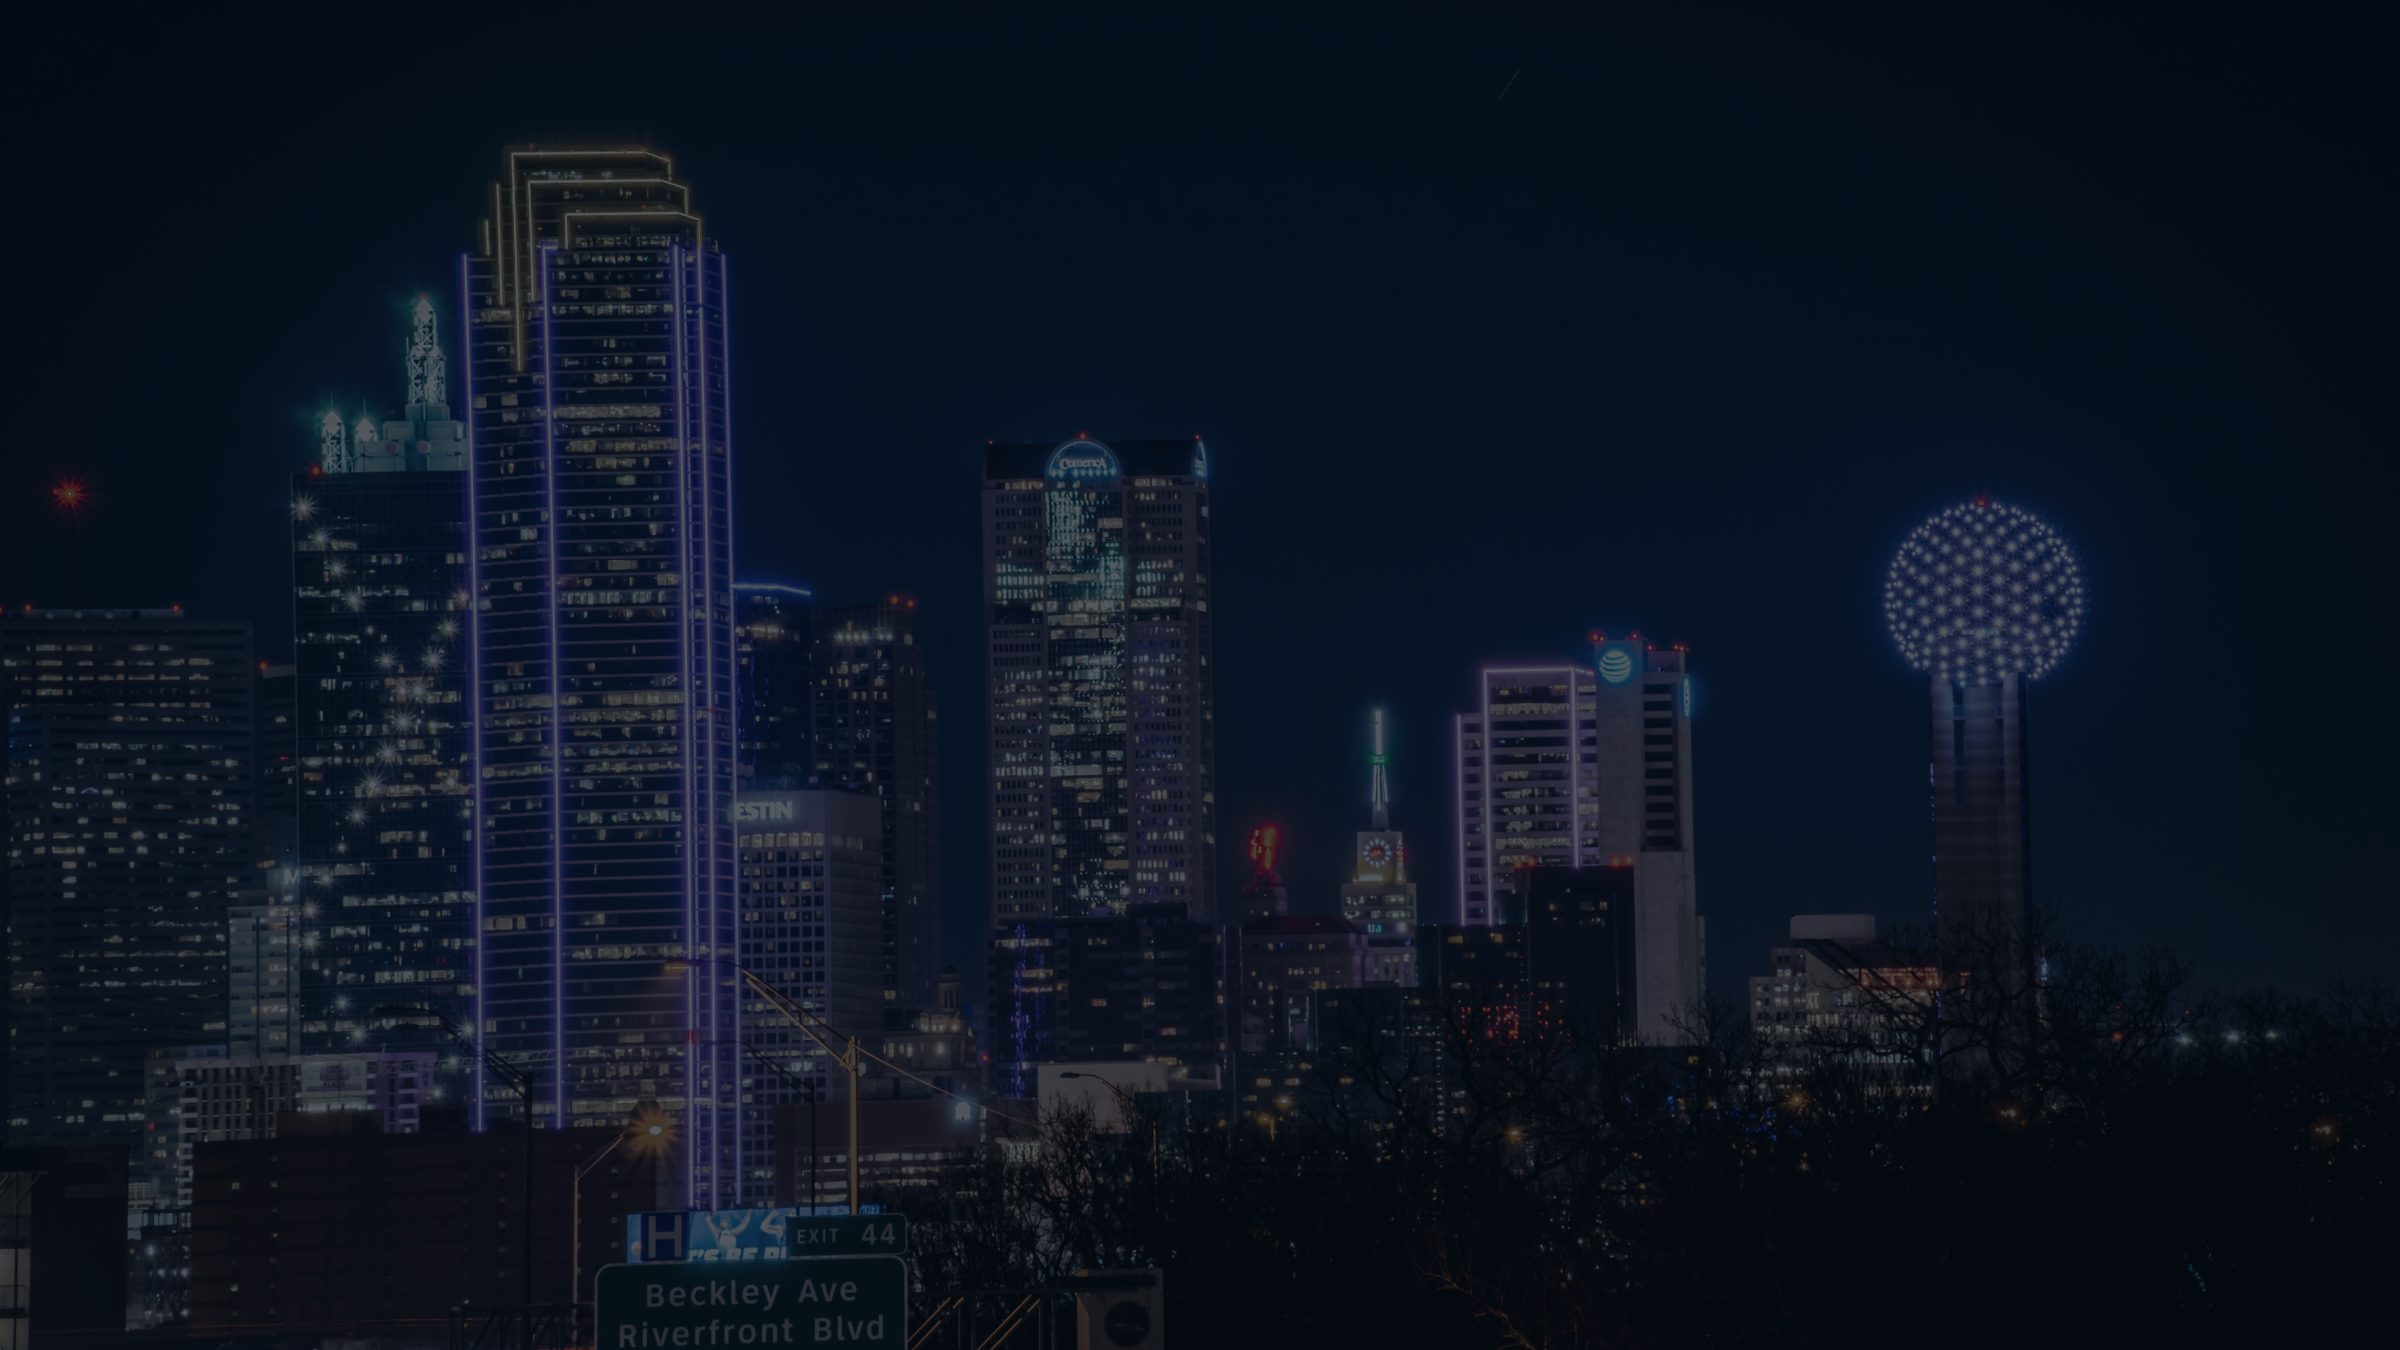
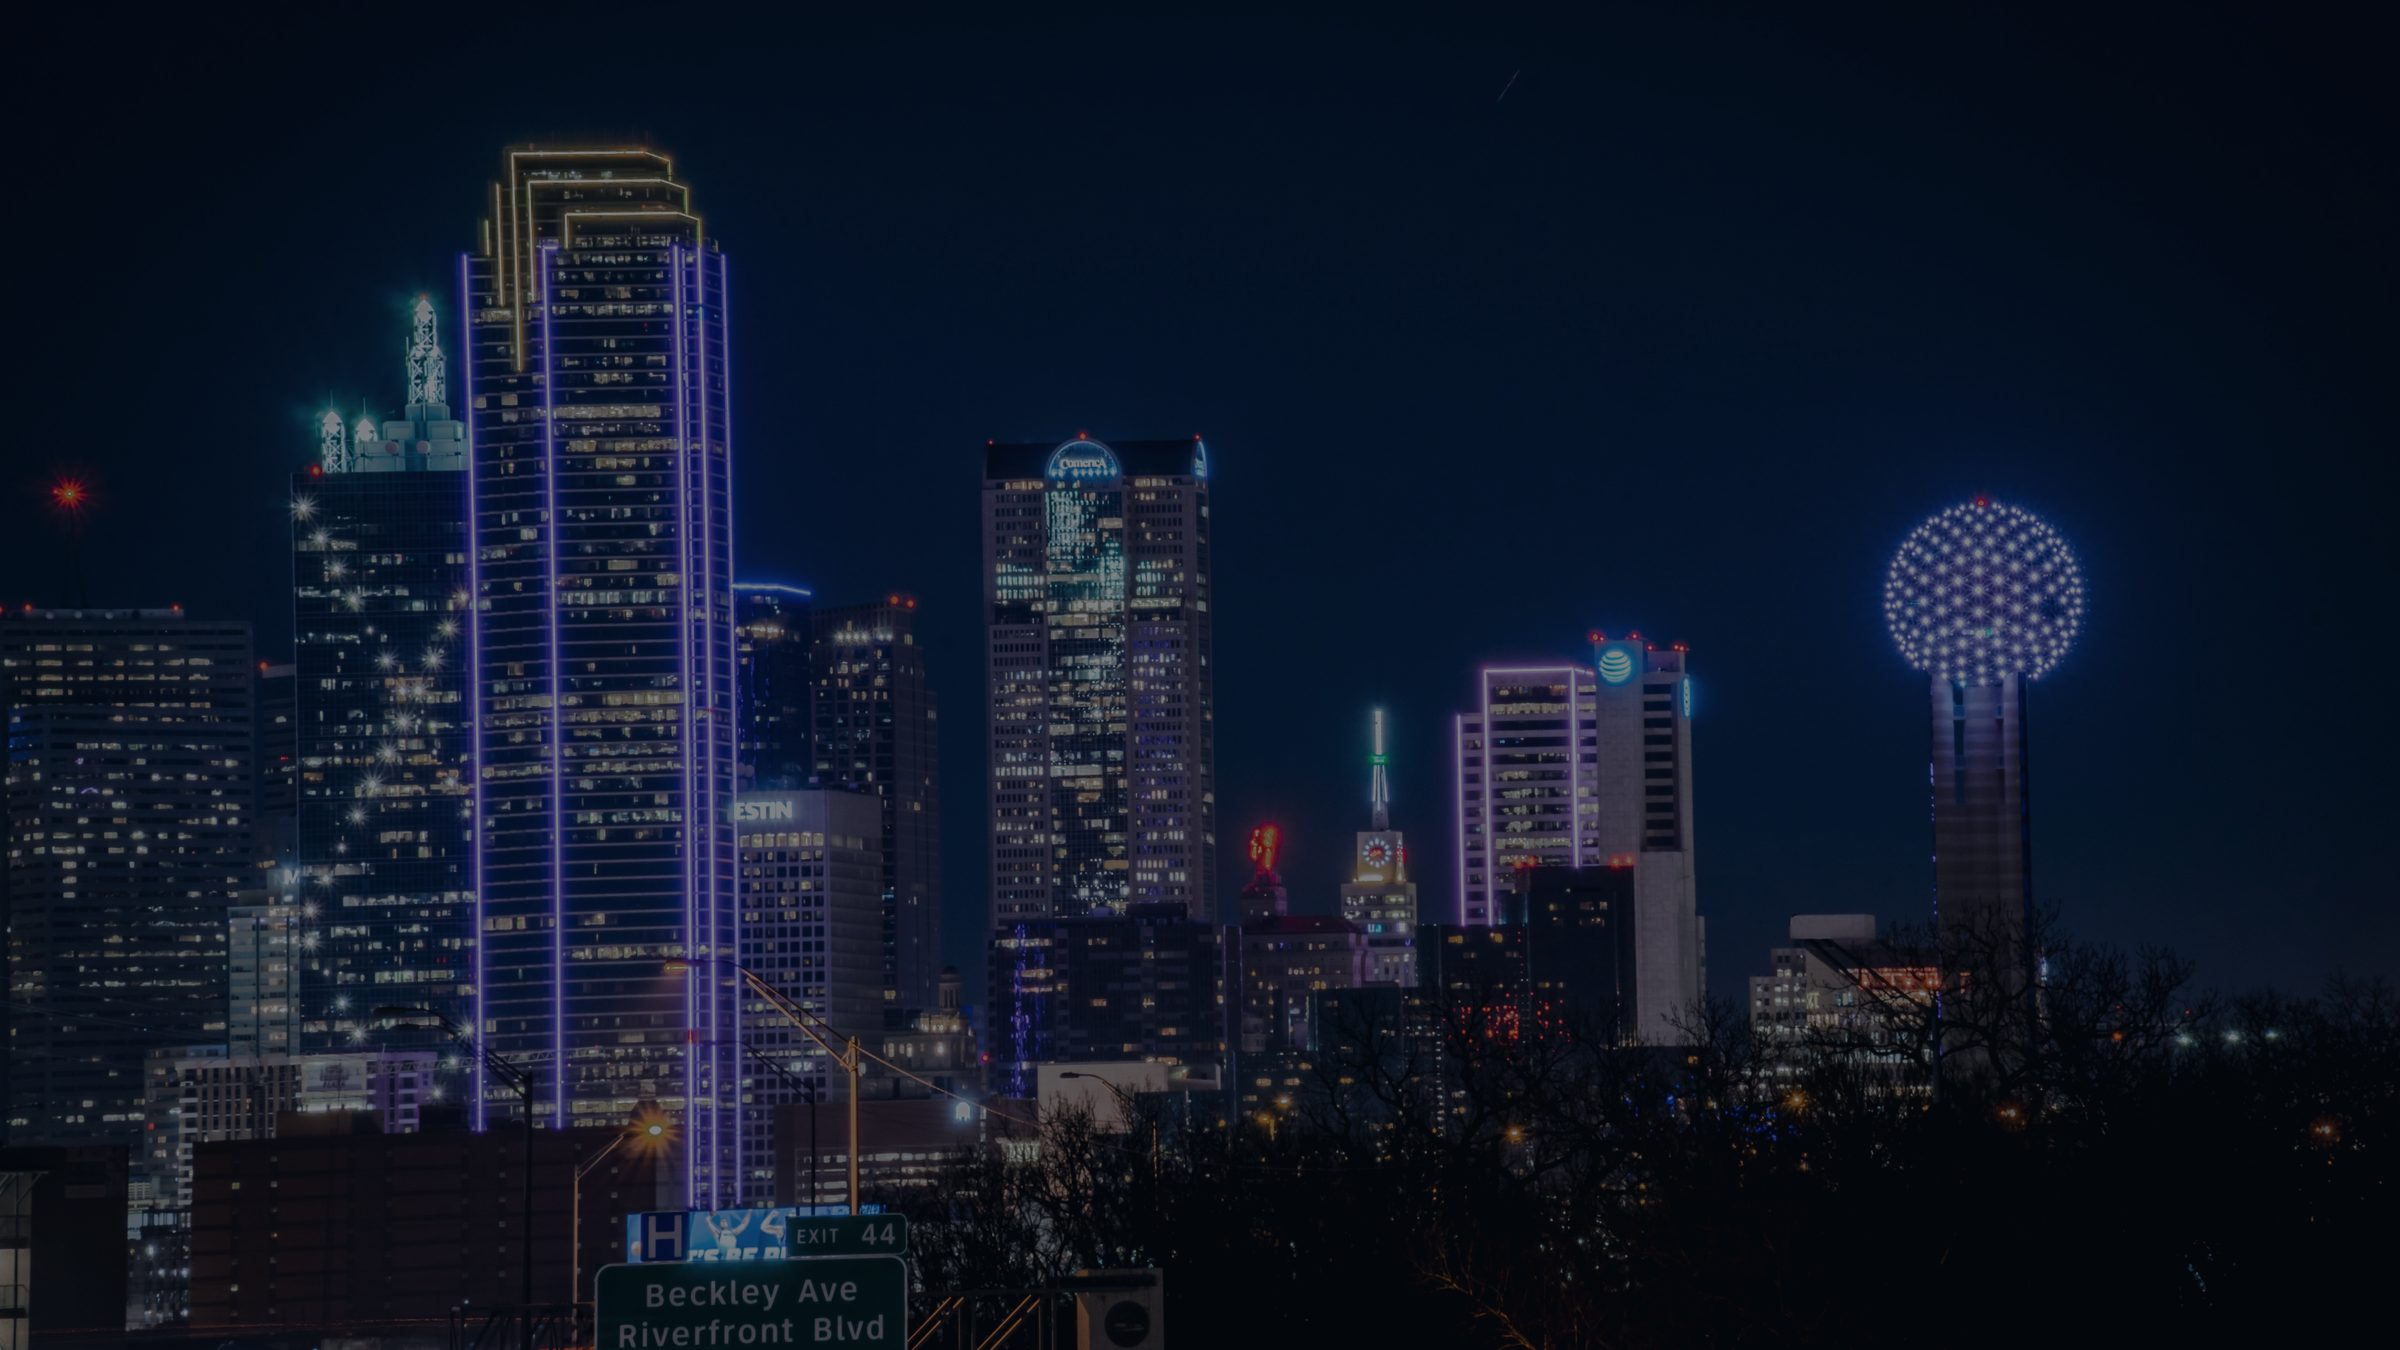
Brighten Dallas hero bg and tighten hero spacing
- Reprocessed dallas-hero.jpg brighter (0.66) with lighter navy tint
  (0.26) so the skyline reads more clearly behind the attorney
- Lightened the hero scrim on the right so more of the city shows
  while keeping the left dark enough for the headline
- Reduced hero padding/min-height and centered the content to remove
  the extra vertical space above and below

diff --git a/home-variation-aer.html b/home-variation-aer.html
@@ -57,10 +57,10 @@ nav a:hover{color:var(--gold-soft)}
 .hero .bg{position:absolute;inset:0;z-index:0;background:url('assets/img/dallas-hero.jpg') center 28%/cover no-repeat}
 .hero .scrim{position:absolute;inset:0;z-index:1;pointer-events:none;
   background:
-    linear-gradient(90deg, rgba(8,16,27,.95) 0%, rgba(11,22,37,.82) 34%, rgba(11,22,37,.42) 62%, rgba(11,22,37,.30) 100%),
-    linear-gradient(0deg, var(--navy-2) 1%, rgba(9,17,28,.55) 16%, rgba(9,17,28,0) 42%),
-    radial-gradient(820px 460px at 74% 42%, rgba(200,161,90,.20), transparent 62%)}
-.hero .wrap{position:relative;z-index:3;display:grid;grid-template-columns:1.08fr .92fr;gap:44px;align-items:center;padding:88px 24px 96px;min-height:600px}
+    linear-gradient(90deg, rgba(8,16,27,.90) 0%, rgba(11,22,37,.62) 32%, rgba(11,22,37,.20) 60%, rgba(11,22,37,.10) 100%),
+    linear-gradient(0deg, var(--navy-2) 0%, rgba(9,17,28,.40) 14%, rgba(9,17,28,0) 40%),
+    radial-gradient(820px 460px at 74% 42%, rgba(200,161,90,.18), transparent 64%)}
+.hero .wrap{position:relative;z-index:3;display:grid;grid-template-columns:1.08fr .92fr;gap:44px;align-items:center;padding:40px 24px 0;min-height:470px}
 .skyline{position:absolute;left:0;right:0;bottom:0;width:100%;height:230px;z-index:1;opacity:.9;pointer-events:none}
 .skyline svg{width:100%;height:100%}
 .eyebrow{display:inline-flex;align-items:center;gap:11px;color:var(--gold-soft);font-size:12.5px;letter-spacing:.2em;text-transform:uppercase;font-weight:700;margin-bottom:20px}
